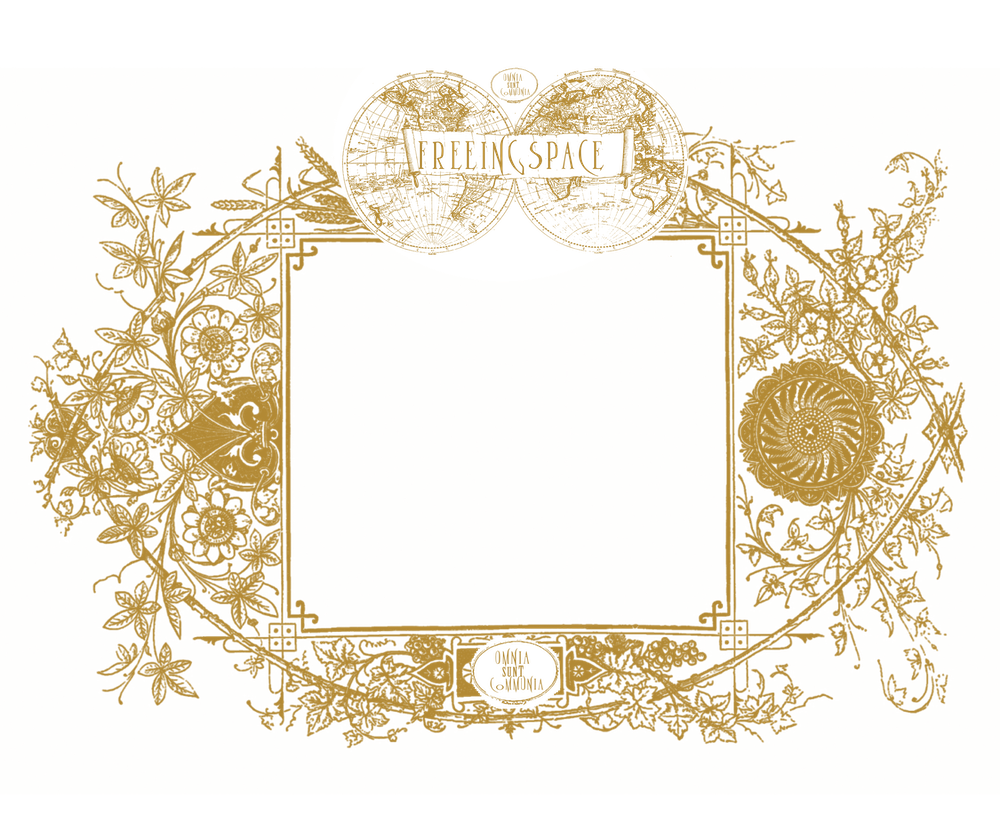
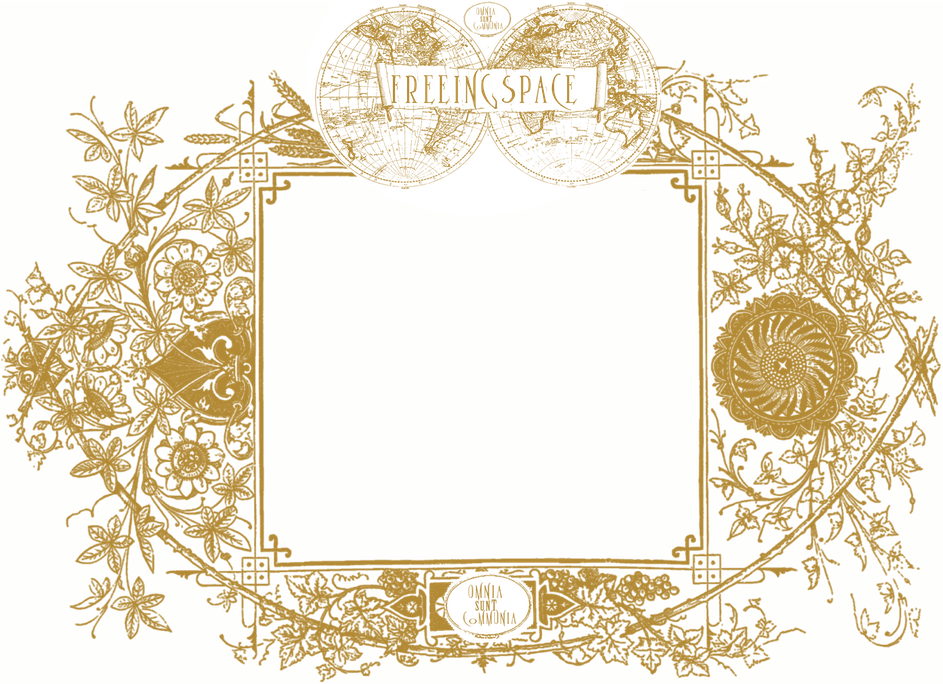
Modal Border Image Working

diff --git a/src/App.scss b/src/App.scss
@@ -287,47 +287,44 @@ menu {
 	right: 0;
 	left: 0;
 	bottom: 0;
-	background-color: rgba(27,26,26,0.33);
+	background-color: rgba(27, 26, 26, 0.33);
 
-	.modal-content {
-		width: 600px;
-		max-width: calc(100% - 3em);
-		margin: 100px auto;
-		text-align: left;
-		background-color: var(--brown);
-		color: var(--white);
-		padding: 1em;
-		font-size: 14px;
-		position: relative;
-		overflow: visible;
+	.modal-border {
+		padding: 150px 180px 150px 200px;
+		margin: 50px auto;
+		max-width: 800px;
+		max-height: 400px;
+		max-height: 430px;
 
-		// New page
-		// border-image-slice: 70%;
-		// border-image-repeat: stretch;
-		// border-width: 70px;
-		// border-image-width: 70px;
-		// border-style: solid;
+		.modal-content {
+			width: 600px;
+			max-width: calc(100% - 15em);
+			margin: 10px auto;
+			text-align: left;
+			background-color: transparent;
+			color: var(--white);
+			padding: 1em;
+			font-size: 14px;
+			position: relative;
+			overflow: visible;
 
-		// Old page
-	    // border-image-slice: 70;
-	    // border-image-repeat: stretch;
+			header {
+				font-family: headerFont;
+				color: var(--gold);
+				font-size: 24px;
+				text-align: center;
+			}
 
-		header {
-			font-family: headerFont;
-			color: var(--gold);
-			font-size: 24px;
-			text-align: center;
-		}
-
-		button {
-			position: absolute;
-			top: 20px;
-			right: 20px;
-			background: transparent;
-			border: none;
-			font-weight: bold;
-			color: var(--gold);
-			cursor: pointer;
+			button {
+				position: absolute;
+				top: 25px;
+				right: 20px;
+				background: transparent;
+				border: none;
+				font-weight: bold;
+				color: var(--gold);
+				cursor: pointer;
+			}
 		}
 	}
 
@@ -340,6 +337,89 @@ menu {
 	    -webkit-animation: spin 1.5s linear infinite;
 	}
 }
+
+.backdrop.is-dark {
+	background-color: rgba(27, 26, 26, 0.8);
+}
+
+@media screen and (max-width: 1116px) {
+	.backdrop .modal-border {
+		border-image-width: 260px !important;	
+		padding-right: 220px;
+
+		.modal-content {
+			margin: 0px;
+			max-width: 100%;
+			width: auto;
+		}	
+	}
+}
+
+@media screen and (max-width: 1050px) {
+	.backdrop .modal-border {
+		border-image-width: 200px !important;	
+		padding-left: 152px;
+		padding-right: 168px;
+		padding-top: 120px;
+
+		.modal-content {
+			width: auto;
+		}
+	}
+}
+
+@media screen and (max-width: 828px) {
+	.backdrop .modal-border {
+		position: absolute;
+		left: -80px;
+		right: -80px;
+	}
+}
+
+@media screen and (max-width: 672px) {
+	.backdrop .modal-border {
+		border-image-width: 200px 200px 120px 200px !important;
+		left: -120px;
+		right: -130px;
+		bottom: -20px;
+		top: 0;
+		max-height: none;
+		margin-bottom: 0;
+	}
+}
+
+@media screen and (max-height: 750px) {
+	.backdrop .modal-border {
+		margin-top: 0;
+	}
+}
+
+
+@media screen and (max-width: 500px) {
+	.backdrop .modal-border {
+		margin-top: 0;
+	}
+}
+
+
+@media screen and (max-height: 700px) and (min-width: 432px) {
+	.backdrop .modal-border {
+		top: -80px;
+		padding-bottom: 120px;
+	}
+}
+
+
+@media screen and (max-height: 550px) {
+	.backdrop .modal-border .modal-content {
+		line-height: 1.2em;
+
+		p, ul {
+			margin: 4px;
+		}
+	}
+}
+
 
 @media screen and (min-width: 901px) {
 	header.page-name {

diff --git a/src/components/Modal.jsx b/src/components/Modal.jsx
@@ -1,23 +1,12 @@
-// const borderImageSrc = require('../images/About-page.png').default;
-// const borderImageSrc = require('../images/border-image.png').default;
-
+const borderImageSrc = require('../images/About-page.png').default;
 
 function Modal({toggleModalVisibility,animationclass}){
-	/* source | slice | width | outset | repeat */
-	//url("/images/border.png") 27 23 / 50px 30px / 1rem round space;
-    // border-image-slice: 70;
-    // border-image-repeat: stretch;
-    // border-width: 70px;
-    // border-style: solid;
-    //200 / 200px / 2rem stretch;
-    // 300 / 300px / 300px 200px stretch 
-	// const borderStyle = {
-	// 	// borderImage: `url('${borderImageSrc}') 70 / 70px / 1rem round stretch`
-	// 	backgroundImage: `url('${borderImageSrc}')`
-	// };
+	const borderStyle = {
+		borderImage: `url('${borderImageSrc}') 260 300 200 360 / auto stretch`
+	};
 	return(
-		<div className="backdrop" >
-			<div className="modal-border">
+		<div className="backdrop is-dark" >
+			<div className="modal-border" style={borderStyle}>
 				<div className="modal-content">
 					<button className="close-modal" onClick={toggleModalVisibility}> X </button>
 					<header><em>About</em></header>

diff --git a/src/components/SearchBox.jsx b/src/components/SearchBox.jsx
@@ -24,6 +24,12 @@ function SearchBox({toggleModalVisibility,toggleSpinner,toggleHousingVisibility,
 		}
 	};
 
+
+	const toggleModal = () => {
+		toggleModalVisibility();
+		toggleMenu();
+	};
+
 	const removeSearch = isClear => {
 		if (searchLayer) {
 			map.removeLayer(searchLayer);
@@ -83,7 +89,7 @@ function SearchBox({toggleModalVisibility,toggleSpinner,toggleHousingVisibility,
 				<button className="search-box-icon" onClick={searchLocation}><img alt="magifying glass" src={searchIcon}/></button>
 			</div>
 			{ !menuVisible || <SideMenu 
-								toggleModalVisibility={toggleModalVisibility} 
+								toggleModalVisibility={toggleModal} 
 								animationclass={aniclass} 
 								toggleHousingVisibility={toggleHousingVisibility}
 								toggleLandVisibility={toggleLandVisibility}
